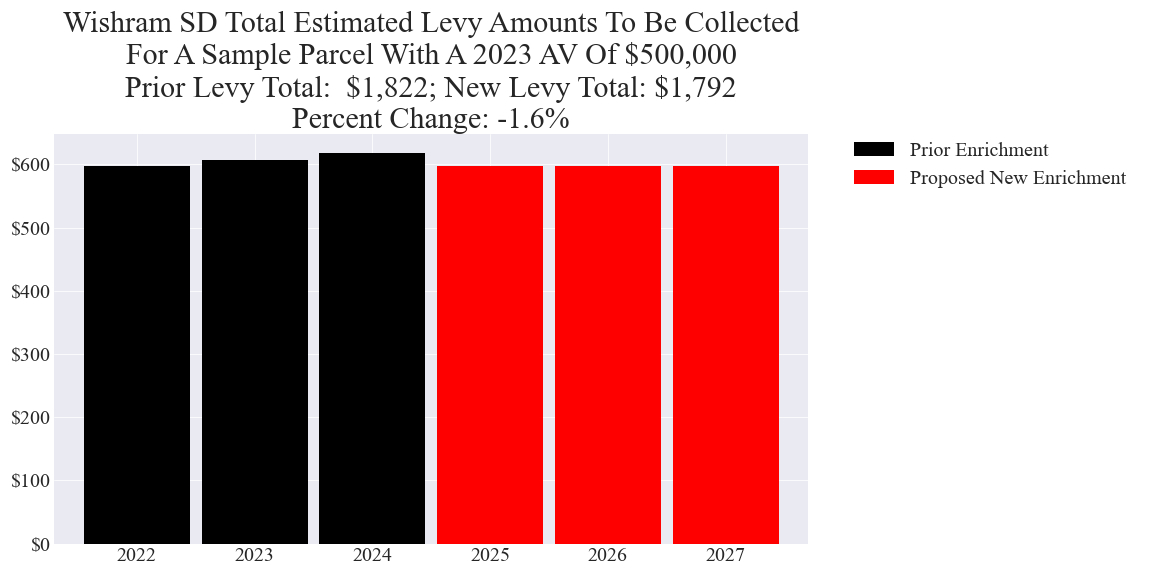
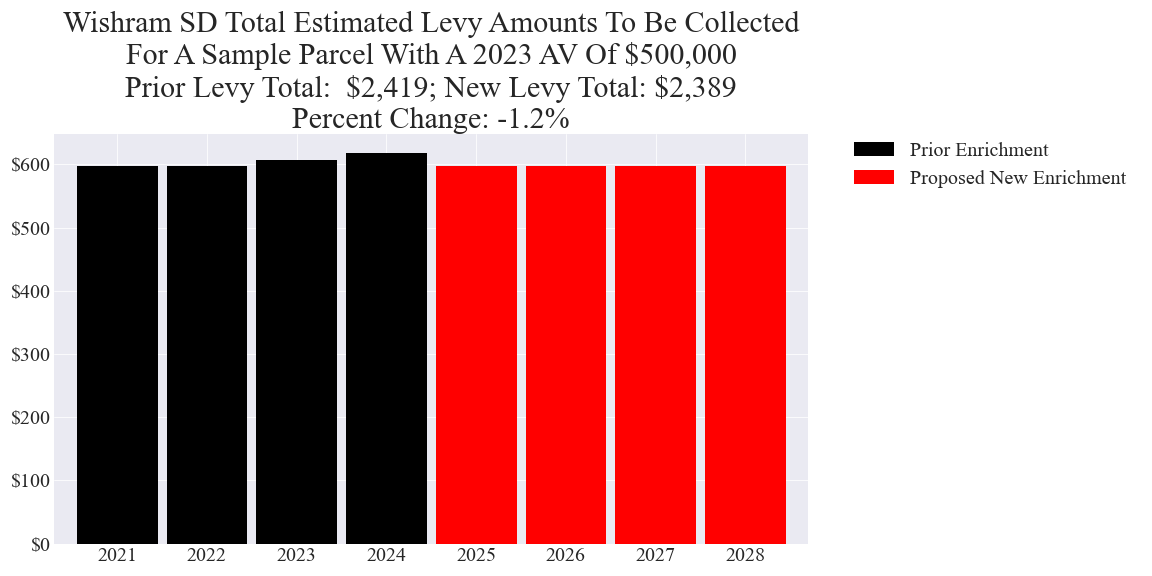
Corrected Wishram SD data

diff --git a/_includes/cost_estimates/20240213/Wishram_Enrichment_20240213_Enhanced.html b/_includes/cost_estimates/20240213/Wishram_Enrichment_20240213_Enhanced.html
@@ -19,7 +19,7 @@
 	totalLevyCostParcel = sampleParcelPOF * totalLevyCost;
 	levyYears = 4;
 	averageTotalLevyCostParcel = totalLevyCostParcel / levyYears;
-	totalLevyPriorCost = 228764.0;
+	totalLevyPriorCost = 303764.0;
 	totalLevyPriorCostParcel = sampleParcelPOF * totalLevyPriorCost;
 	averageTotalLevyPriorCostParcel = totalLevyPriorCostParcel / levyYears;
 	// POF Annual Change Percent
@@ -37,12 +37,14 @@
 		data.addColumn('number', 'New Levy Amount');
 
 		data.addRows([
+			['2021', 75000, 0],
 			['2022', 75000, 0],
 			['2023', 76248, 0],
 			['2024', 77516, 0],
 			['2025', 0, 75000],
 			['2026', 0, 75000],
 			['2027', 0, 75000],
+			['2028', 0, 75000],
 
 		]);
 
